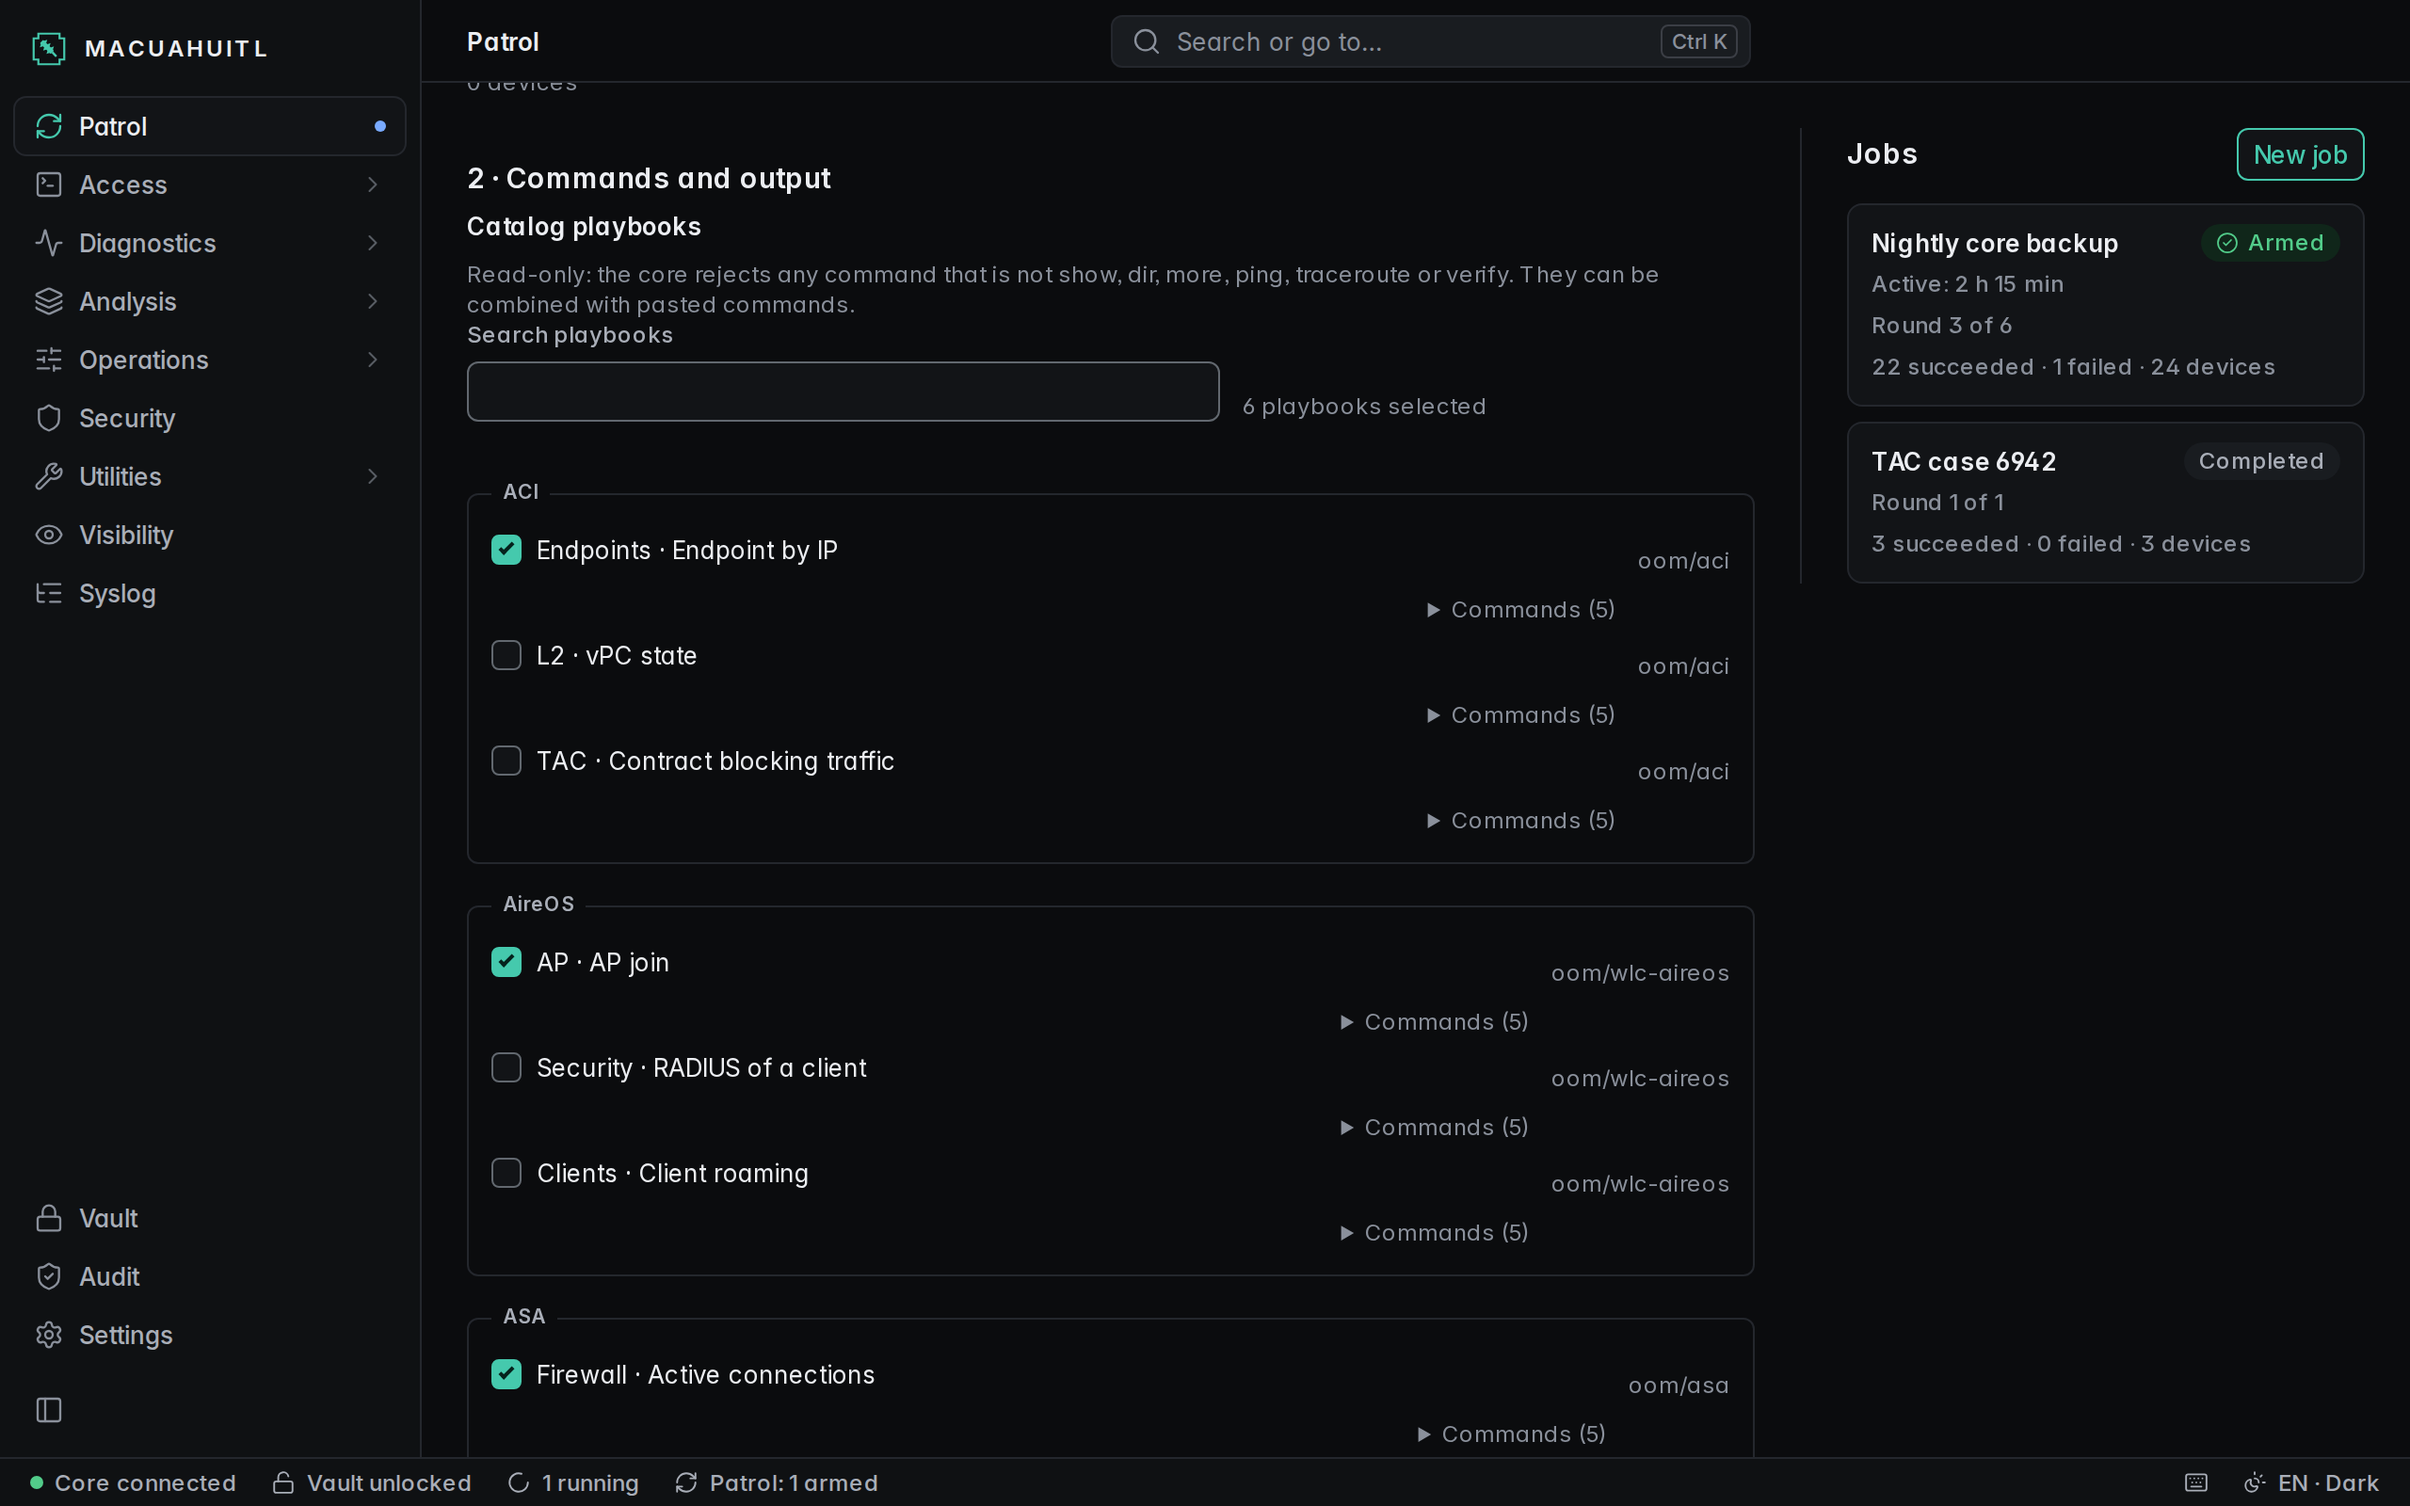
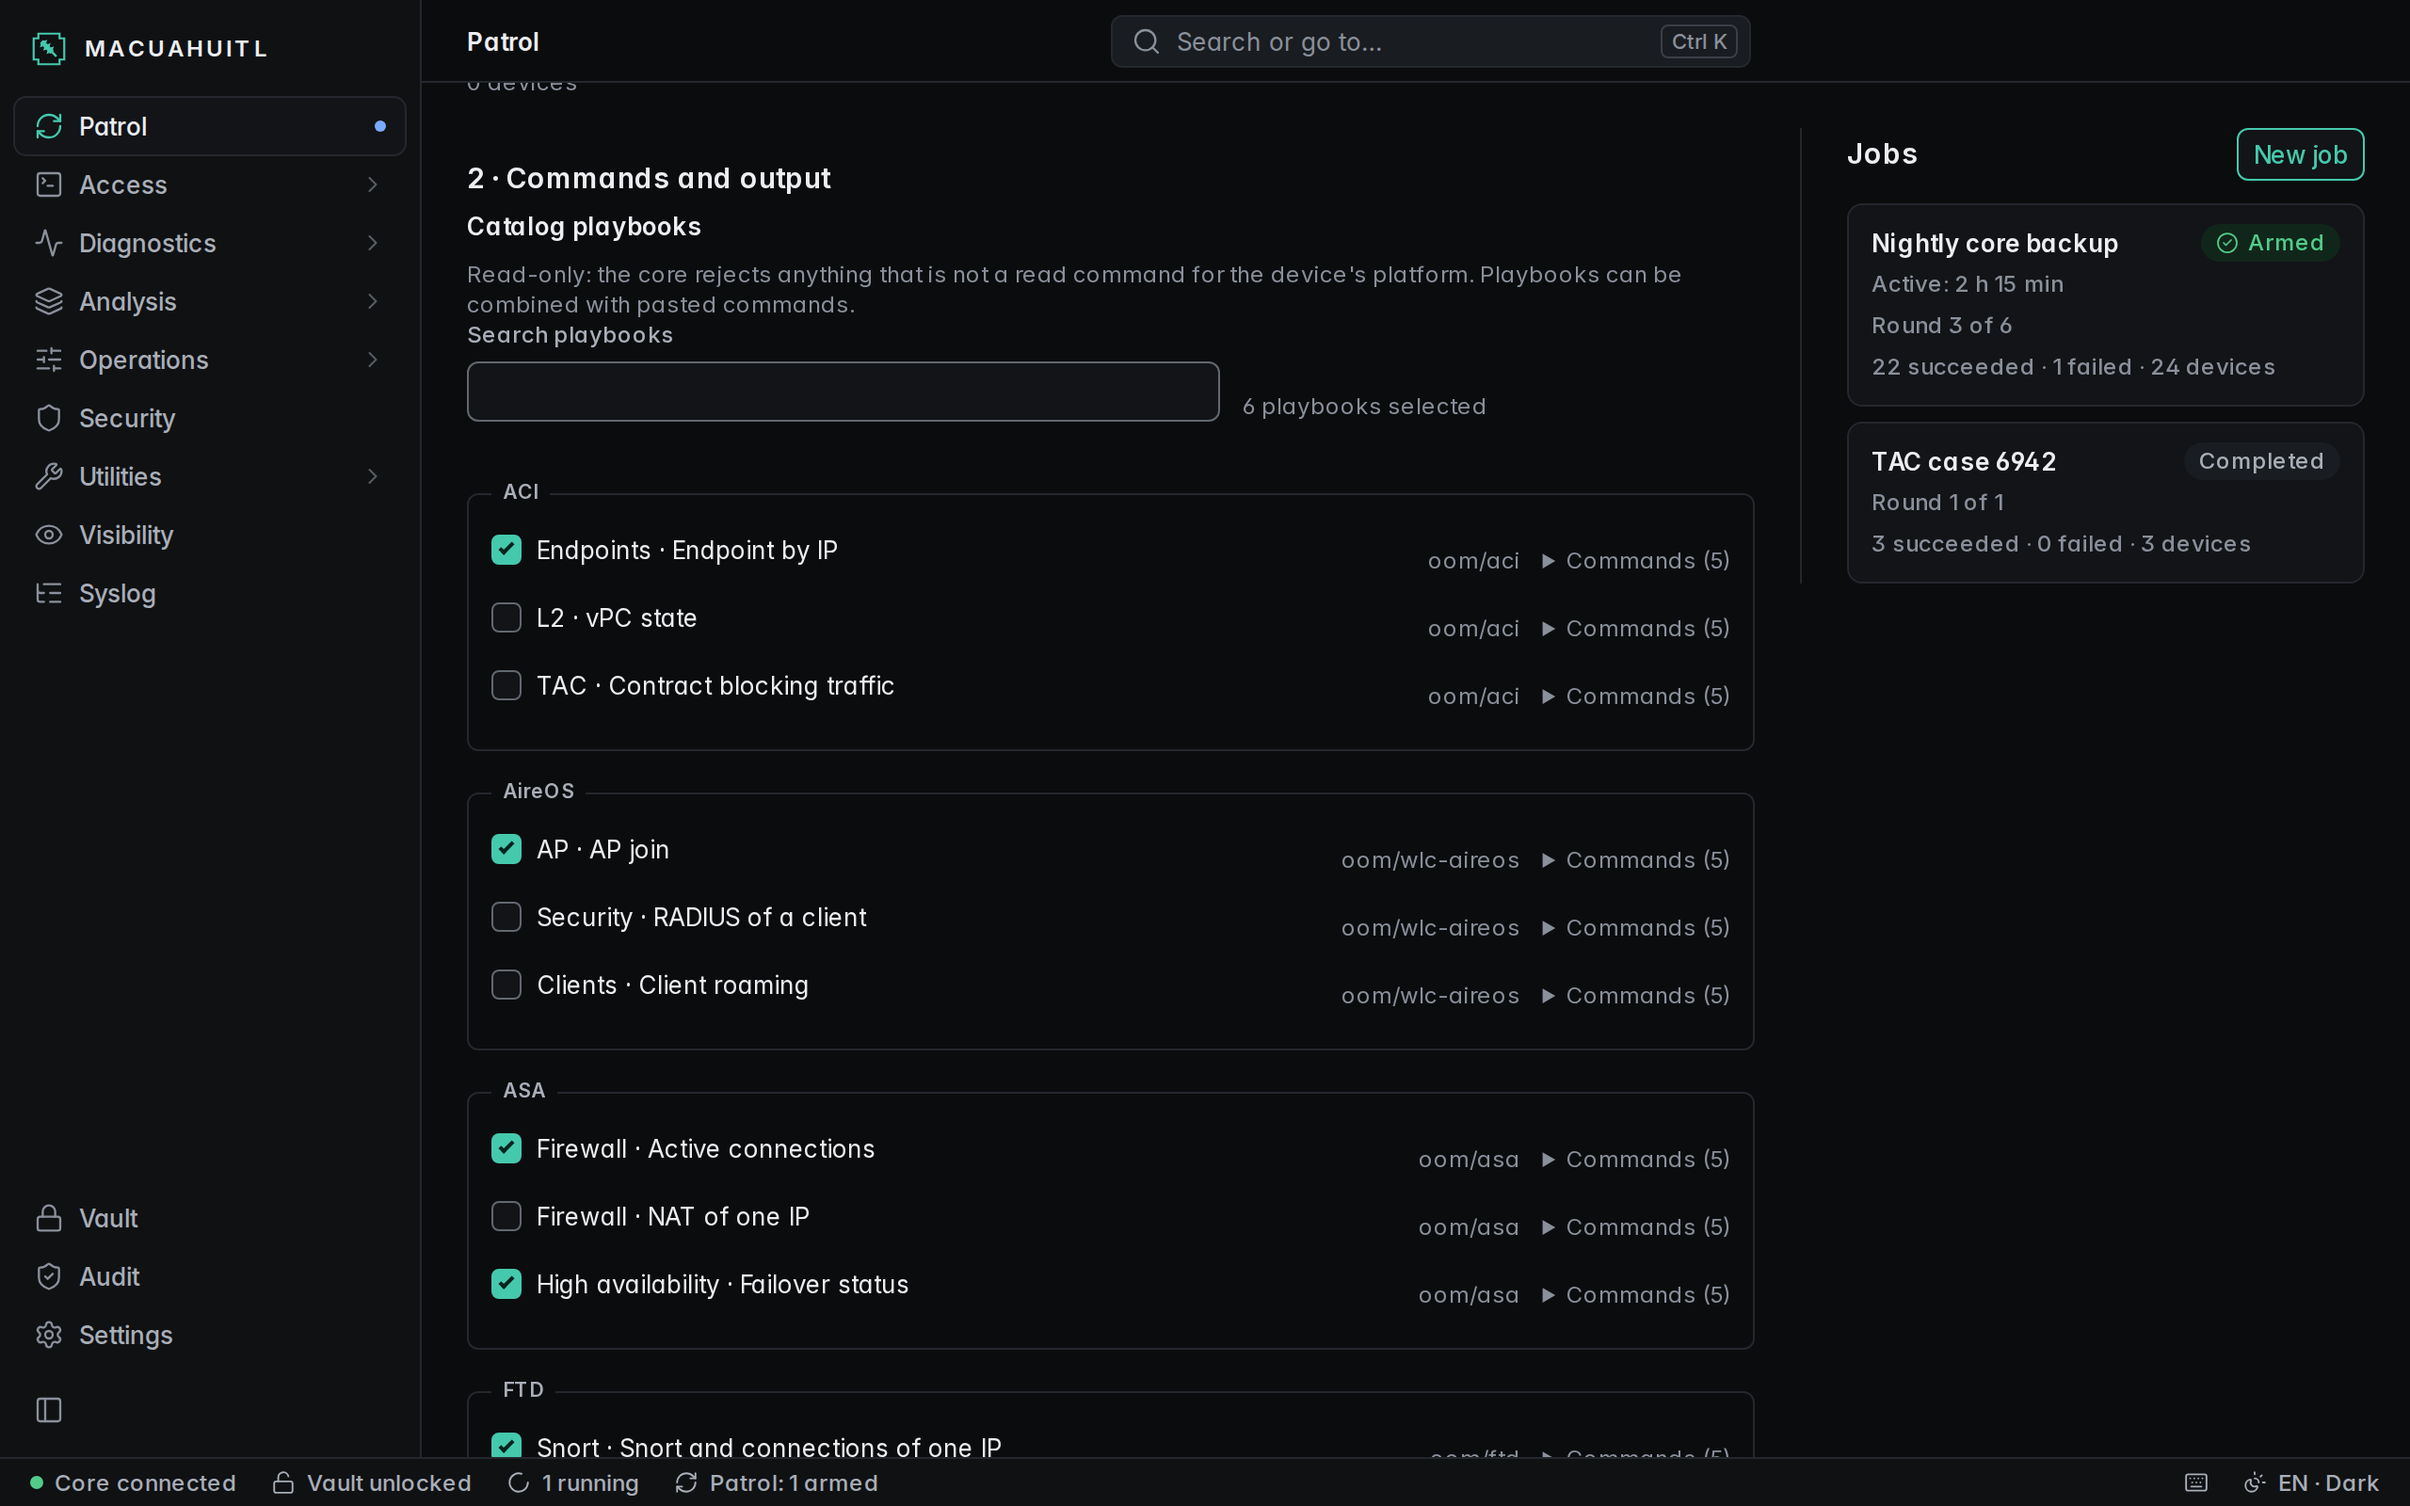
Ventana: tamaño inicial que cabe en pantallas chicas; Patrol: aviso de solo lectura genérico y fila del selector alineada (#105)
* Ventana: el tamaño inicial cabe en pantallas chicas y el aviso de solo lectura de Patrol ya no enumera comandos

- ui/main.go: al arrancar, si el 90 % del área de trabajo de la pantalla es menor que
  1280×800, la ventana se ajusta a ese tamaño (nunca menos de 960×640) y se centra; en
  1366×768 la barra de estado quedaba fuera. bridge.InitialSize con prueba.
- patrol.pb.hint (es/en): la lista de comandos de lectura depende de la plataforma (en ASA
  «more» se rechaza); el texto ahora es genérico.

* Ventana (revisión): área de trabajo real de la pantalla principal, posición calculada con el tamaño nuevo y sin goroutine extra

- Primero app.Screen.GetPrimary().WorkArea (sin paneles); si su caché aún no está, la
  geometría de la pantalla de la ventana.
- Center usaba el tamaño que GTK reporta antes de aplicar SetSize: SetRelativePosition con
  el tamaño calculado, centrado en el área de trabajo.
- Wails ya corre la escucha en su goroutine con recuperación de pánicos.
- Prueba con la geometría completa y con un solo eje que no cabe; «device's platform».

* Selector de playbooks: nombre, paquete y «Commands (N)» en una sola fila (antes «Commands» flotaba a media fila)

* Captura del selector de playbooks con el aviso de solo lectura nuevo y la fila alineada

diff --git a/ui/frontend/src/lib/i18n/es.ts b/ui/frontend/src/lib/i18n/es.ts
@@ -1749,7 +1749,7 @@ export const es = {
   "patrol.pb.other": "Otros",
   "patrol.pb.cmds": "Comandos ({n})",
   "patrol.pb.title": "Playbooks del catálogo",
-  "patrol.pb.hint": "Solo lectura: el núcleo rechaza cualquier comando que no sea show, dir, more, ping, traceroute o verify. Se pueden combinar con comandos pegados.",
+  "patrol.pb.hint": "Solo lectura: el núcleo rechaza todo lo que no sea un comando de lectura para la plataforma del equipo. Los playbooks se pueden combinar con comandos pegados.",
   "patrol.pb.unavailable": "No se pudo leer el catálogo de playbooks del núcleo; se pueden usar comandos pegados.",
   "patrol.missing.commands": "un playbook o comandos",
   "ssh.termHint": "Dentro de la terminal todas las teclas van al equipo (Tab, ?, flechas, Ctrl-C). Ctrl+Mayús+K saca el foco de la terminal; Ctrl+Mayús+C copia la selección y Ctrl+Mayús+V pega; el clic derecho copia la selección o, sin selección, pega.",

diff --git a/ui/frontend/src/lib/i18n/en.ts b/ui/frontend/src/lib/i18n/en.ts
@@ -1751,7 +1751,7 @@ export const en: Record<Key, string> = {
   "patrol.pb.other": "Other",
   "patrol.pb.cmds": "Commands ({n})",
   "patrol.pb.title": "Catalog playbooks",
-  "patrol.pb.hint": "Read-only: the core rejects any command that is not show, dir, more, ping, traceroute or verify. They can be combined with pasted commands.",
+  "patrol.pb.hint": "Read-only: the core rejects anything that is not a read command for the device's platform. Playbooks can be combined with pasted commands.",
   "patrol.pb.unavailable": "The core's playbook catalog could not be read; you can still paste commands.",
   "patrol.missing.commands": "a playbook or commands",
   "ssh.termHint": "Inside the terminal every key goes to the device (Tab, ?, arrows, Ctrl+C). Ctrl+Shift+K moves focus out of the terminal; Ctrl+Shift+C copies the selection and Ctrl+Shift+V pastes; right-click copies the selection or, with none, pastes.",

diff --git a/ui/frontend/src/modules/patrol/patrol.css b/ui/frontend/src/modules/patrol/patrol.css
@@ -83,7 +83,7 @@ tr[data-state="bad"] td:nth-child(2) { color: var(--critical); }
 .pb-picker { display: grid; gap: 12px; margin-bottom: 16px; }
 .pb-group { border: 1px solid var(--hairline); border-radius: var(--radius, 8px); padding: 8px 12px 10px; margin: 0; }
 .pb-group > legend { padding: 0 6px; font-weight: 600; font-size: 0.8125rem; color: var(--text-2); }
-.pb-item { display: grid; grid-template-columns: minmax(0, 1fr) auto; align-items: center; column-gap: 12px; padding: 2px 0; }
+.pb-item { display: grid; grid-template-columns: minmax(0, 1fr) auto auto; align-items: center; column-gap: 12px; padding: 2px 0; } /* nombre · paquete · «Commands (N)» en una fila */
 .pb-item details { justify-self: end; }
 .pb-item details[open] { grid-column: 1 / -1; justify-self: stretch; }
 .pb-cmds { margin: 4px 0 6px 28px; padding: 0; list-style: none; font-size: 0.8125rem; color: var(--text-2); }

diff --git a/ui/main.go b/ui/main.go
@@ -59,7 +59,7 @@ func main() {
 	})
 	// Sin marco: la UI dibuja sus propios controles y zonas de arrastre (ui/frontend/src/app).
 	win := app.Window.NewWithOptions(application.WebviewWindowOptions{
-		Title: "MACUAHUITL", Width: 1280, Height: 800, MinWidth: 960, MinHeight: 640, Frameless: true,
+		Title: "MACUAHUITL", Width: bridge.WindowWidth, Height: bridge.WindowHeight, MinWidth: bridge.WindowMinWidth, MinHeight: bridge.WindowMinHeight, Frameless: true,
 		Linux: application.LinuxWindow{Icon: icon}, EnableFileDrop: true,
 	})
 	// Archivos soltados sobre una zona [data-file-drop-target]: la UI recibe las rutas y el id de la zona.
@@ -105,6 +105,25 @@ func main() {
 			d.SetCancelButton(stay)
 			d.Show()
 		}()
+	})
+	// En una pantalla chica (1366×768) el tamaño preferido deja la barra de estado fuera: al arrancar se ajusta al 90 %
+	// del área de trabajo de la pantalla, sin bajar del mínimo, y se centra en ella. El área de trabajo real (sin paneles)
+	// es la de la pantalla principal; si su caché aún no está, la geometría completa de la pantalla de la ventana.
+	// Wails ya corre cada escucha en su propia goroutine (con recuperación de pánicos).
+	app.Event.OnApplicationEvent(events.Common.ApplicationStarted, func(*application.ApplicationEvent) {
+		s := app.Screen.GetPrimary()
+		if s == nil {
+			s, _ = win.GetScreen()
+		}
+		if s == nil {
+			return
+		}
+		wa := s.WorkArea
+		if w, h := bridge.InitialSize(wa.Width, wa.Height); w != bridge.WindowWidth || h != bridge.WindowHeight {
+			win.SetSize(w, h)
+			// Center usaría el tamaño que GTK reporta antes de aplicar SetSize: la posición se calcula con el nuevo.
+			win.SetRelativePosition(wa.X-s.Bounds.X+max(0, (wa.Width-w)/2), wa.Y-s.Bounds.Y+max(0, (wa.Height-h)/2))
+		}
 	})
 	ctx, cancel := context.WithCancel(context.Background())
 	defer cancel()

diff --git a/ui/bridge/window.go b/ui/bridge/window.go
@@ -1,0 +1,19 @@
+package bridge
+
+// Tamaño de la ventana (ui/main.go). Funciones y constantes, no métodos: Wails no las expone a la interfaz.
+const (
+	WindowWidth, WindowHeight       = 1280, 800 // preferido
+	WindowMinWidth, WindowMinHeight = 960, 640
+)
+
+// InitialSize es el tamaño con el que abre la ventana: el preferido, sin pasar del 90 % del área de trabajo de la
+// pantalla (en 1366×768 la barra de estado quedaba fuera) y nunca menos que el mínimo. Sin datos de pantalla (0), el preferido.
+func InitialSize(workW, workH int) (int, int) {
+	fit := func(pref, work, least int) int {
+		if work <= 0 {
+			return pref
+		}
+		return max(least, min(pref, work*9/10))
+	}
+	return fit(WindowWidth, workW, WindowMinWidth), fit(WindowHeight, workH, WindowMinHeight)
+}

diff --git a/ui/bridge/window_test.go b/ui/bridge/window_test.go
@@ -1,0 +1,18 @@
+package bridge
+
+import "testing"
+
+func TestInitialSizeCabeEnLaPantalla(t *testing.T) {
+	for _, c := range []struct{ ww, wh, w, h int }{
+		{1920, 1050, 1280, 800}, // sobra espacio: el preferido
+		{1366, 740, 1229, 666},  // 1366×768 con su panel: 90 % del área de trabajo
+		{1366, 768, 1229, 691},  // la misma pantalla si solo se conoce la geometría completa
+		{1920, 740, 1280, 666},  // un eje cabe y el otro no
+		{1024, 600, 960, 640},   // más chica que el mínimo: el mínimo
+		{0, 0, 1280, 800},       // sin datos de pantalla
+	} {
+		if w, h := InitialSize(c.ww, c.wh); w != c.w || h != c.h {
+			t.Errorf("InitialSize(%d, %d) = %d×%d; quiero %d×%d", c.ww, c.wh, w, h, c.w, c.h)
+		}
+	}
+}
